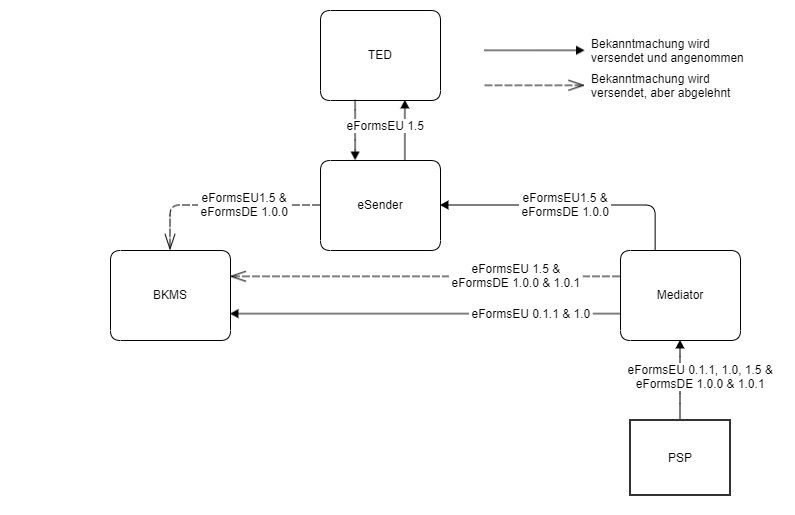
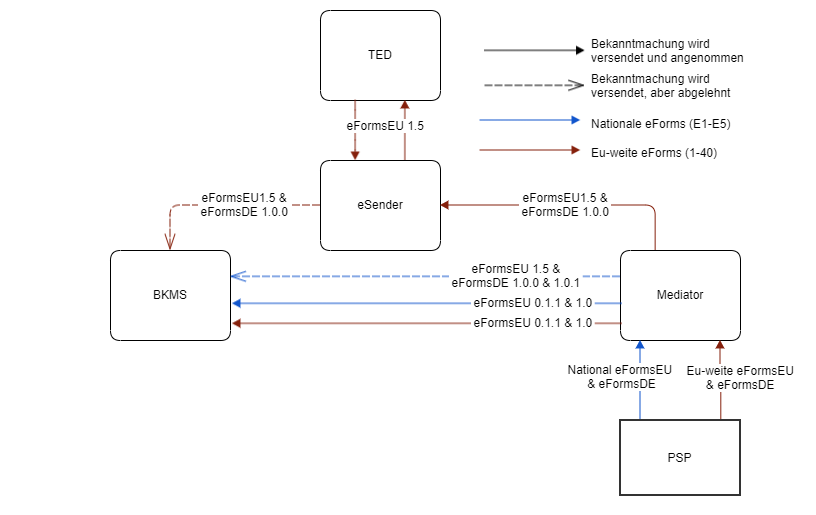
Added validator page, fixes, updated diagrams

diff --git a/Validator.md b/Validator.md
@@ -1,0 +1,19 @@
+**EfA-Umsetzungsprojekt "Zugang zur öffentlichen Vergabe"**
+### Dokumentation Vermittlungsdienst
+[Startseite](Readme.md)
+<br><br>
+
+# eForms Validator
+
+Unter der URL https://validator.ozg-vermittlungsdienst.de/ ist der eForms Validierungsdervice verfügbar.<br>
+Mit Hilfe des Validierungsservice können Sie Ihre eForms-DE Dokumente der Version eForms-DE 1.0.1 vorab validieren, um Validierungsfehler bei der Übertragung von Bekanntmachungen an den Vermittlungsdienst zu vermeiden.
+<br><br>
+Es wird eine Kombination aus einer XML-Schema-Validierung und einer Schematron-Validierung der Dokumente durchgeführt. Als Ergebnis wird ein Validierungsreport, der dem Aufbau des Validierungsreport aus dem Vermittlungsdienst entspricht, im JSON-Format zurückgegeben.
+<br><br>
+Die zugehörige OpenAPI-Spezifikation zum Validator finden Sie unter https://validator.ozg-vermittlungsdienst.de/ und steht Ihnen im JSON-Format zum Download unter https://validator.ozg-vermittlungsdienst.de/eForm-DE_validation_service_REST-API.json bereit.
+<br><br>
+Die Nutzung des Services ist ohne vorherige Registrierung oder Anmeldung möglich.
+<br><br>
+Übermittelte Dokumente und die Validierungsreports werden weder im System gespeichert noch weitergleitet.
+<br><br>
+Bitte beachten Sie, der Service ist ausschließlich für Entwicklungsarbeiten gedacht und sollte nur zu diesem Zweck genutzt werden. Es werden keine Garantien auf Verfügbarkeit und Reaktionszeit übernommen.

diff --git a/Connection_to_mediator.md b/Connection_to_mediator.md
@@ -16,7 +16,7 @@ Es ist zukünftig möglich Bekanntmachungen auch über das eDelivery Network PEP
 <br><br>
 
 ## Beantragen eines Zugangs duch einen FVH
-Ein Vertreter des FVH beantragt die Einrichtung eines neuen Benutzer bei dem zuständigen Organisationsadministrator per E-Mail oeffentliche-vergabe@nortal.com. Es muss pro Portal ein Benutzer angelegt werden.<br>
+Ein Vertreter des FVH beantragt die Einrichtung eines neuen Benutzer bei dem zuständigen Organisationsadministrator per E-Mail oeffentliche-vergabe@nortal.com. Es muss pro Vergabeplattform ein Benutzer angelegt werden.<br>
 In der E-Mail müssen folgende Angaben enthalten sein:
 
 - E-Mail-Adresse unter der der Benutzer angelegt werden soll

diff --git a/Readme.md b/Readme.md
@@ -11,6 +11,7 @@
 - [Anbindung an den Vermittlungsdienst](Connection_to_mediator.md)
 - [Statusinformationen](Status_information.md)
 - [eForms Unterstützung](eForms_support.md)
+- [eForms Validator](validator.md)
 - [Releases](Releases.md)
 <br><br>
 

diff --git a/Development_environments.md b/Development_environments.md
@@ -124,7 +124,3 @@ Vermittlungsdienst-System in der Lage, Bekanntmachungen auch an das entsprechend
     </tr>
   </tbody>
 </table>
-<br><br>
-
-## Validator
-*In Bearbeitung ...*
